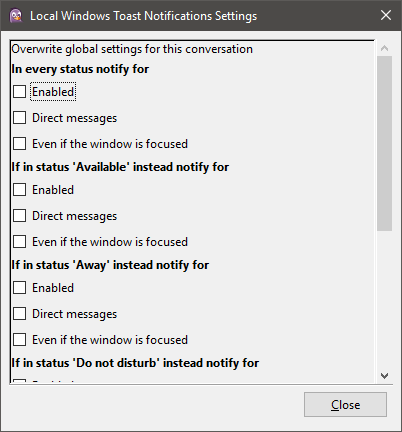
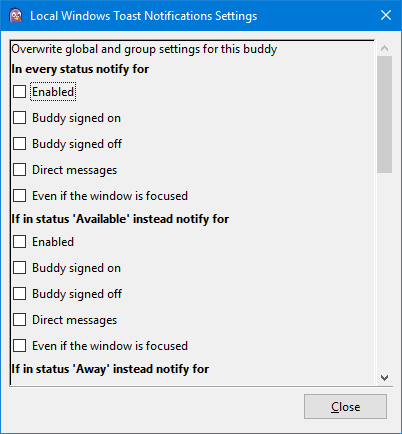
Added supported Pidgin versions and latest features to Readme Fixes #9

Changed region(s): [[0.0, 0.0, 1.0, 1.0], [0.8657, 0.9329, 0.8955, 0.963]]

diff --git a/README.md b/README.md
@@ -1,58 +1,92 @@
 # PidginWinToastNotifications
 
-Windows toast notification plugin for Pidgin.
+Windows toast notification plugin for [Pidgin](https://pidgin.im/).
 
-Shows notifications on message receive in the standard Windows design.
+Shows notifications on message receive or buddy sign on / off in the standard Windows design.
 
 Direct message from someone who has a profile picture:
 
 ![Direct message with picture](./img/direct_with_picture.jpg "Direct message with picture")
 
-Direct message from someone who has no profile picture:
+Direct message from someone who has not a profile picture:
 
 ![Direct message without picture](./img/direct_without_picture.jpg "Direct message without picture")
 
-Chat message from someone who has no profile picture:
+Chat message from someone who has not a profile picture:
 
 ![Chat message without picture](./img/chat_without_picture.jpg "Chat message without picture")
 
+A buddy who has not a profile picture signed on:
+
+![Buddy signed on](./img/sign_on.jpg "Buddy signed on")
+
+A buddy who has not a profile picture signed off:
+
+![Buddy signed off](./img/sign_off.jpg "Buddy signed off")
+
 This plugin uses Pidgin's standard C API so no other tools like Perl are required.
 
-## Features
+## Table of contents
+
+* [Table of contents](#table-of-contents)
+* [Configuration](#configuration)
+* [Supported operating systems](#supported-operating-systems)
+* [Changelog](#changelog)
+* [Installation](#installation)
+* [Architecture](#architecture)
+* [How to build on Windows](#how-to-build-on-windows)
+
+## Configuration
 
 It can be configured if notifications should be shown for direct messages, every message in chats, only for messages in chats when mentioned or only if the conversation window is not focused.
+
+It is also possible to configure if a notification should be shown when a buddy signed on or off.
 
 This configuration can be overwritten per status (Available, Away, Do not disturb, Extended away or Invisible).
 
 Global configuration:
 
-![Configuration](./img/configuration.png "Configuration")
+![Global configuration](./img/configuration.png "Configuration")
 
-Also, it is possible to overwrite the global settings for each conversation.
+It is also possible to overwrite the global settings for each group, chat and buddy.
+
+Configuration for a group:
+
+![Group configuration](./img/configuration_group.png "Configuration for group")
 
 Configuration for a chat:
 
-![Configuration](./img/configuration_chat.png "Configuration for chat")
+![Chat configuration](./img/configuration_chat.png "Configuration for chat")
 
 Configuration for a buddy:
 
-![Configuration](./img/configuration_buddy.png "Configuration for buddy")
+![Buddy configuration](./img/configuration_buddy.png "Configuration for buddy")
 
 The global configuration can be accessed via the default plugin configuration page (In Buddy List: Tools / Plugins / Windows Toast Notifications).
 
 The local settings can be opened from the conversation menu underneath *More* or from the context menu of a buddy or chat in the Buddy List:
 
-![Configuration](./img/configuration_menu.png "Open settings for a conversation")
+![Configuration menu in a conversation](./img/configuration_menu.png "Open settings for a conversation")
 
 ## Supported operating systems
 
-The plugin was developed and tested with the newest Windows 10 version.
+The plugin was developed and tested using the newest Windows 10 version.
 
-Other Windows 10 versions, Windows 8 and Windows 8.1 should work, too, but this wasn't tested.
+Other Windows 10 versions, Windows 8 and Windows 8.1 should also work, but this has not been tested.
 
 To display the protocol, account and chat name in the toast notifications the Windows 10 Anniversary Update (also known as version 1607 or Redstone 1) or newer is required.
 
-If you experience any problems, feel free to open an issue.
+## Supported Pidgin versions
+
+The plugin was developed and tested using the newest Pidgin 2 version.
+
+Other Pidgin versions may work, but this has not been tested.
+
+If a problem occurs, try [updating Pidgin to the latest 2.X.X version](https://pidgin.im/).
+
+## Help and feature requests
+
+If you experience a problem or have an idea for a new feature, [feel free to open an issue](https://github.com/ChristianGalla/PidginWinToastNotifications/issues).
 
 ## Changelog
 
@@ -60,7 +94,7 @@ All changes between versions are documented in the file [CHANGELOG.md](./CHANGEL
 
 ## Installation
 
-1.  Download the dll files from the [newest release](https://github.com/ChristianGalla/PidginWinToastNotifications/releases/latest).
+1. Download the dll files from the [newest release](https://github.com/ChristianGalla/PidginWinToastNotifications/releases/latest).
 2. Copy the file PidginWinToastLib.dll to the installation directory of Pidgin. This is usually "C:\Program Files (x86)\Pidgin" on 64-bit versions of Windows or "C:\Program Files\Pidgin" on a 32-bit version.
 3. Copy the file PidginWinToastNotifications.dll to the plugin directory of Pidgin. This is usually "C:\Program Files (x86)\Pidgin\plugins" on 64-bit versions of Windows or "C:\Program Files\Pidgin\plugins" on a 32-bit version.
 4. Start Pidgin. Open the plugin window and enable "Windows Toast Notifications".
